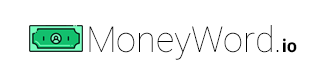
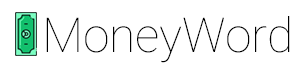
new branding moneyword

Changed region(s): [[0.0296, 0.1791, 0.977, 0.9552]]

diff --git a/templates/results2.html b/templates/results2.html
@@ -14,7 +14,7 @@
   <script src="https://ajax.googleapis.com/ajax/libs/jquery/3.4.1/jquery.min.js"></script>
   <link rel="stylesheet" type="text/css" href="https://cdn.datatables.net/1.10.20/css/jquery.dataTables.css">
   <script type="text/javascript" charset="utf8" src="https://cdn.datatables.net/1.10.20/js/jquery.dataTables.js"></script>
-
+<link rel="icon" href="{{ url_for('static', filename='moneywordlogo.png') }}">
 <script src="{{ url_for('static', filename='src/sigma.core.js') }}"></script>
 <script src="{{ url_for('static', filename='src/conrad.js') }}"></script>
 <script src="{{ url_for('static', filename='src/utils/sigma.utils.js') }}"></script>
@@ -85,9 +85,15 @@
     }
     #sigma-container {
 
-    max-width: 1000px;
-    height: 600px;
-    margin: auto;
+        max-width: 1000px;
+        height: 600px;
+        margin: auto;
+    }
+    .dataTables_filter {
+        float: left !important;
+    }
+    .dataTables_filter input { width: 100px }
+
   </style>
 
   <script>
@@ -102,14 +108,21 @@
     console.log(data);
     $('#table_id').DataTable( {
     data: data,
-    pageLength: 20,
+    lengthChange: false,
+     searching: false,
+    language: {
+        search: "_INPUT_",
+        searchPlaceholder: "Search Results"
+    },
+    pageLength: 15,
     order: [3,'desc']  ,
       columns: [
           { data: 'keyword' },
           { data: 'POS' },
           { data: 'query' },
           { data: 'keyword_count' }
-      ]
+      ],
+
   } );
 
 
@@ -139,7 +152,64 @@
           <img src="{{url_for('static', filename='moneyword.png')}}" alt="logo">
           <h6 class="header col s12 light center ">Find out what words will help you earn more money</h6>
       </div>
-      <div class="row center">
+
+    <div class="row grey lighten-3" center>
+        <div class ="col s4">
+            <h5>Top Nouns</h5>
+        </div>
+        <div class ="col s4">
+            <h5>Top Adjectives</h5>
+        </div>
+        <div class ="col s4">
+            <h5>Top Verbs</h5>
+        </div>
+
+        <div class="col s2">
+            {% for n in range(nouns|length)%}
+                {{nouns[n]["keyword"]}} <br>
+            {% endfor %}
+        </div>
+        <div class="col s2">
+            {% for n in range(nouns|length)%}
+                {% for c in range(nouns[n]["keyword_count"]) %}
+                    <i class="material-icons tiny green">attach_money</i>
+                {% endfor %}<br>
+             {% endfor %}
+            <br>
+        </div>
+        <div class="col s2">
+            {% for n in range(adjectives|length)%}
+                {{adjectives[n]["keyword"]}} <br>
+            {% endfor %}
+
+        </div>
+        <div class="col s2">
+            {% for n in range(adjectives|length)%}
+                {% for c in range(adjectives[n]["keyword_count"]) %}
+                    <i class="material-icons tiny green">attach_money</i>
+                {% endfor %}<br>
+            {% endfor %}
+        <br>
+
+        </div>
+        <div class="col s2">
+            {% for n in range(verbs|length)%}
+                {{verbs[n]["keyword"]}} <br>
+            {% endfor %}
+        </div>
+        <div class="col s2">
+            {% for n in range(verbs|length)%}
+                {% for c in range(verbs[n]["keyword_count"]) %}
+                    <i class="material-icons tiny green">attach_money</i>
+                {% endfor %}<br>
+            {% endfor %}
+        <br>
+        </div>
+    <br>
+    </div>
+
+      <div class="row ">
+     <h5>Detailed Results</h5>
      <table id="table_id" class="display" style="width:100%">
        <thead>
         <tr>
@@ -193,13 +263,7 @@
   </div>
 
 
-  <div class="container">
-    <div class="section">
 
-
-    </div>
-    <br><br>
-  </div>
 
   <footer class="page-footer grey ">
     <div class="container">

diff --git a/templates/landingpage.html b/templates/landingpage.html
@@ -12,6 +12,7 @@
     <!--Import jquery-->
     <script src="https://ajax.googleapis.com/ajax/libs/jquery/3.2.1/jquery.min.js"></script>
     <script src="https://cdnjs.cloudflare.com/ajax/libs/jqueryui/1.12.1/jquery-ui.min.js"></script>
+  <link rel="icon" href="{{ url_for('static', filename='moneywordlogo.png') }}">
     <script>
 
         var searchValues = {{ searchValues| tojson }};
@@ -91,7 +92,7 @@
     <br><br><br>
     <img src="{{url_for('static', filename='moneyword.png')}}" alt="logo"><br><br>
   <div class="preloader-wrapper big active">
-    <div class="spinner-layer spinner-blue-only">
+    <div class="spinner-layer spinner-green-only">
       <div class="circle-clipper left">
         <div class="circle"></div>
       </div><div class="gap-patch">

diff --git a/templates/results.html b/templates/results.html
@@ -12,9 +12,8 @@
   <link href="https://fonts.googleapis.com/icon?family=Material+Icons" rel="stylesheet">
   <!--Import jquery-->
   <script src="https://ajax.googleapis.com/ajax/libs/jquery/3.4.1/jquery.min.js"></script>
-  <!--Import chart js-->
-  <script src="https://cdn.jsdelivr.net/npm/chart.js@2.8.0"></script>
 
+ <link rel="icon" href="{{ url_for('static', filename='moneywordlogo.png') }}">
   <script>
 
     $(document).ready(function () {

diff --git a/databaseConnection.py b/databaseConnection.py
@@ -1,7 +1,7 @@
 from pymongo import MongoClient
 #https://api.mongodb.com/python/current/tutorial.html
 from datetime import datetime
-
+import json
 class dbConnection:
     client = MongoClient()
     testhost = "localhost"
@@ -29,14 +29,25 @@ class dbConnection:
     def returnUniqueQueryValues(self):
         return self.nameCollection.distinct("query")
 
-    def returnKeywordValues(self, query,limit_amount=100):
-        result = self.nameCollection.find({"query":query, "keyword_count" : {"$gte" : 3}},{"_id": 0, "time":0 }).sort("keyword_count", -1).limit(limit_amount)
+    def returnKeywordValues(self, query,limit_amount=75):
+        result = self.nameCollection.find({"query":query, "keyword_count" : {"$gte" : 2}},{"_id": 0, "time":0 }).sort("keyword_count", -1).limit(limit_amount)
         list_result = list(result)
+        nouns = [x for x in list_result if x['POS'] == 'Noun'][:5]
+        print("nouns")
+        print(nouns)
+        verbs = [x for x in list_result if x['POS'] == 'Verb'][:5]
+        print("verbs")
+        print(verbs)
+        adjectives = [x for x in list_result if x['POS'] == 'Adjective'][:5]
+        print("adjectives")
+        print(adjectives)
         print (list_result)
-        return (list_result)
+        return ({"all":list_result,"nouns":nouns,"verbs":verbs,"adjectives":adjectives})
 
     def returnQueryValues(self, keyword, limit_amount=5):
         result = self.nameCollection.find({"keyword": keyword}, {"_id": 0, "time": 0}).sort("keyword_count", -1).limit(limit_amount)
         list_result = list(result)
+
+
         print (list_result)
         return (list_result)

diff --git a/main.py b/main.py
@@ -13,7 +13,7 @@ db = dbConnection()
 #https://visjs.github.io/vis-network/examples/static/jsfiddle.1e459ff7d7345694e4e5563fcf087a54980b2d41e612c02f7f5133da1c4da9f5.html
 def buildGraph(keywords):
     #get 15 keywords
-    keywords_trim = keywords[:3]
+    keywords_trim = keywords[:7]
     graph = {}
 
     for word in keywords_trim:
@@ -102,8 +102,8 @@ def diplayresult(searchQuery):
     print("placeholder2")
     data = db.returnKeywordValues(searchQuery)
     print(data)
-    graph = buildGraph(data)
-    return render_template('results2.html',searchQuery=searchQuery, data=data, nodes=graph['nodes'], edges=graph['edges'])
+    graph = buildGraph(data["all"])
+    return render_template('results2.html',searchQuery=searchQuery, data=data["all"], verbs =data["verbs"], nouns = data["nouns"], adjectives = data["adjectives"],  nodes=graph['nodes'], edges=graph['edges'])
 
 # run flask app
 if __name__ == '__main__':
